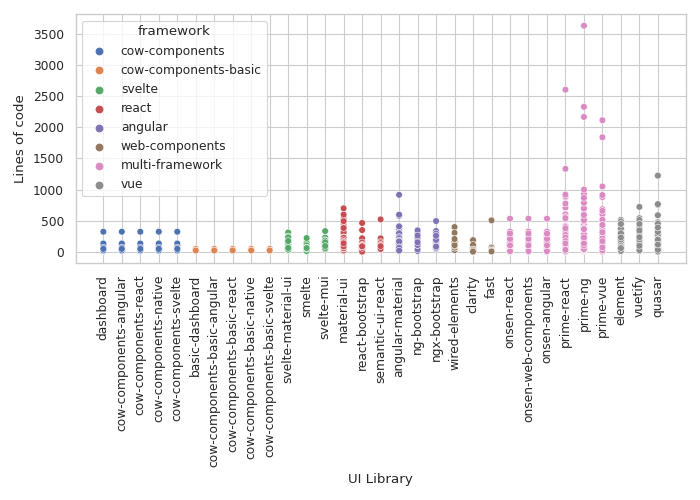
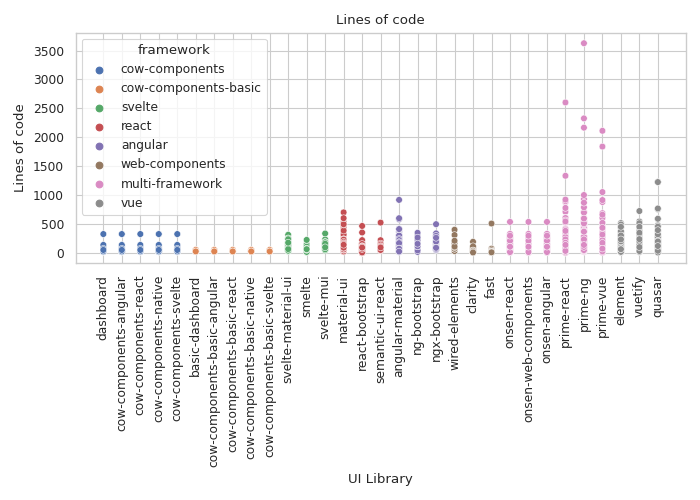
add titles to  plots

Changed region(s): [[0.12, 0.03, 0.96, 0.51], [0.0, 0.06, 0.09, 0.48], [0.78, 0.15, 0.87, 0.3]]

diff --git a/paper/plots/generators/load_time/cow_plot.py b/paper/plots/generators/load_time/cow_plot.py
@@ -7,11 +7,12 @@ def generate_load_time_cow_plot():
     data = get_data()
 
     ax = create_plot(
+        "Load time of main bundle (cow bundles only) - Lower is better",
         "boxen",
         data,
         lambda bundle_data: bundle_data.load_time.values if "cow-components" in bundle_data.framework else None,
         "UI Library",
-        "Load time of main bundle (ms)",
+        "Load time (ms)",
         rotate_labels=True,
         extra_dict={"hue": "framework"},
         figsize=(7, 5),

diff --git a/paper/plots/data/get_data.py b/paper/plots/data/get_data.py
@@ -183,6 +183,7 @@ def create_dataframe(
 
 
 def create_plot(
+    title: str,
     plot_type: Union[Literal["boxen"], Literal["scatter"]],
     data: Data,
     get_data: Callable[[BundleData], Any],
@@ -214,6 +215,7 @@ def create_plot(
         ax = sns.scatterplot(x=bundle_label, y=data_label, data=df, *extra, hue="framework")
     else:
         raise Exception(f'Unknown plot type "{plot_type}"')
+    ax.set_title(title)
     plt.tight_layout()
     return ax
 

diff --git a/paper/plots/generators/load_time/all_plot.py b/paper/plots/generators/load_time/all_plot.py
@@ -8,11 +8,12 @@ def generate_load_time_all_plot():
     data = get_data()
 
     ax = create_plot(
+        "Load time of main bundle - Lower is better",
         "boxen",
         data,
         lambda bundle_data: bundle_data.load_time.values,
         "UI Library",
-        "Load time of main bundle (ms)",
+        "Load time (ms)",
         rotate_labels=True,
         extra_dict={"hue": "framework"},
         figsize=(7, 5),

diff --git a/paper/plots/generators/quality/cyclomatic_complexity.py b/paper/plots/generators/quality/cyclomatic_complexity.py
@@ -7,6 +7,7 @@ def generate_cyclomatic_complexity_plot():
     data = get_data()
 
     ax = create_plot(
+        "Cyclomatic complexity - Lower is better",
         "boxen",
         data,
         lambda bundle_data: list(filter(lambda x: x != -1, bundle_data.cyclomatic_complexity.component_time_map.values())),

diff --git a/paper/plots/generators/quality/structural_complexity.py b/paper/plots/generators/quality/structural_complexity.py
@@ -7,6 +7,7 @@ def generate_structural_complexity_plot():
     data = get_data()
 
     ax = create_plot(
+        "Structural complexity - Lower is better",
         "boxen",
         data,
         lambda bundle_data: list(filter(lambda x: x != -1, bundle_data.structural_complexity.component_time_map.values())),

diff --git a/paper/plots/generators/quality/maintainability.py b/paper/plots/generators/quality/maintainability.py
@@ -7,6 +7,7 @@ def generate_maintainability_plot():
     data = get_data()
 
     ax = create_plot(
+        "Maintainability - Higher is better",
         "boxen",
         data,
         lambda bundle_data: list(filter(lambda x: x != -1, bundle_data.maintainability.component_time_map.values())),

diff --git a/paper/plots/generators/quality/lines_of_code.py b/paper/plots/generators/quality/lines_of_code.py
@@ -7,6 +7,7 @@ def generate_lines_of_code_plot():
     data = get_data()
 
     ax = create_plot(
+        "Lines of code",
         "scatter",
         data,
         lambda bundle_data: list(bundle_data.lines_of_code.component_time_map.values()),

diff --git a/paper/plots/generators/quality/size.py b/paper/plots/generators/quality/size.py
@@ -7,6 +7,7 @@ def generate_size_plot():
     data = get_data()
 
     ax = create_plot(
+        "Size - Lower is better",
         "scatter",
         data,
         lambda bundle_data: bundle_data.size / 1024,

diff --git a/paper/plots/generators/page_load/first_paint.py b/paper/plots/generators/page_load/first_paint.py
@@ -24,6 +24,7 @@ def generate_first_paint_plot():
 
     df = pd.DataFrame(obj)
     ax = create_plot(
+        "Page load time - Lower is better",
         "boxen",
         data,
         None,
